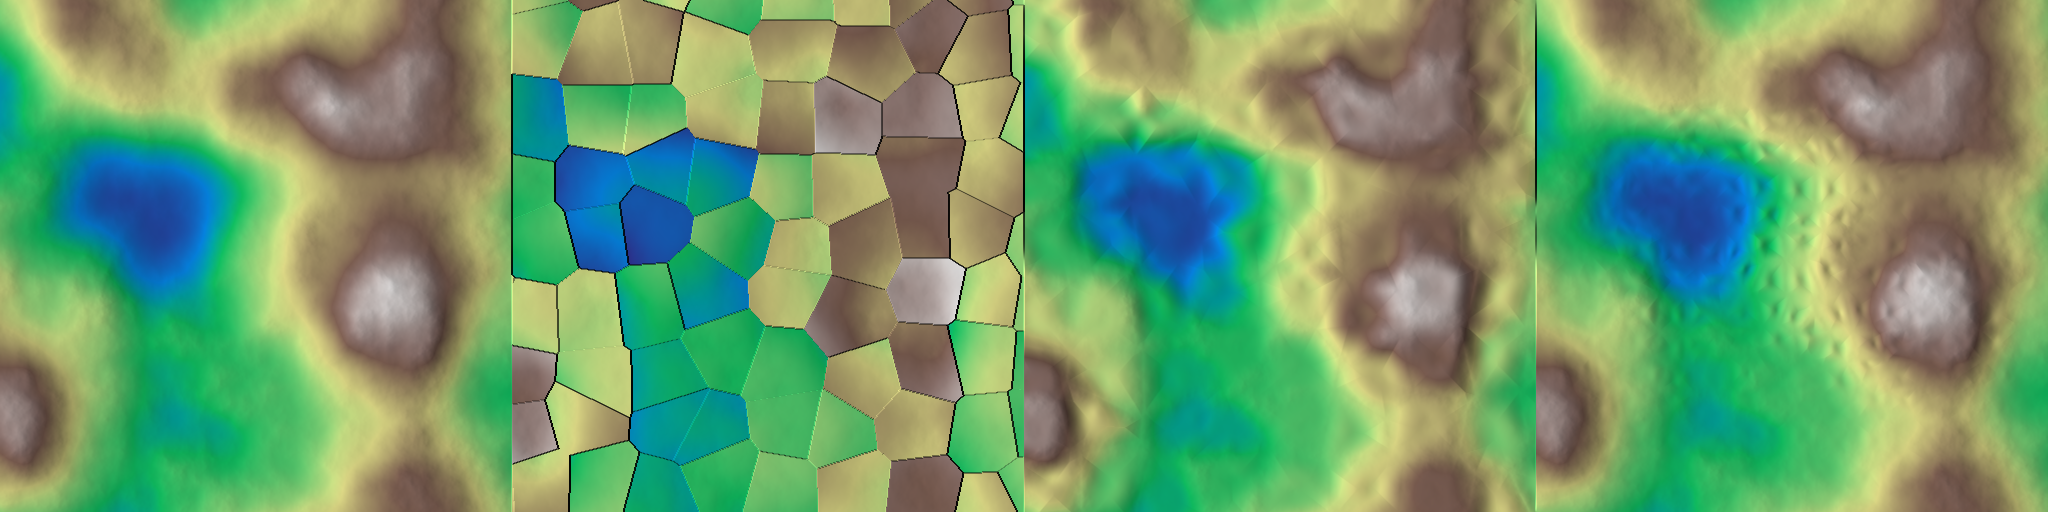
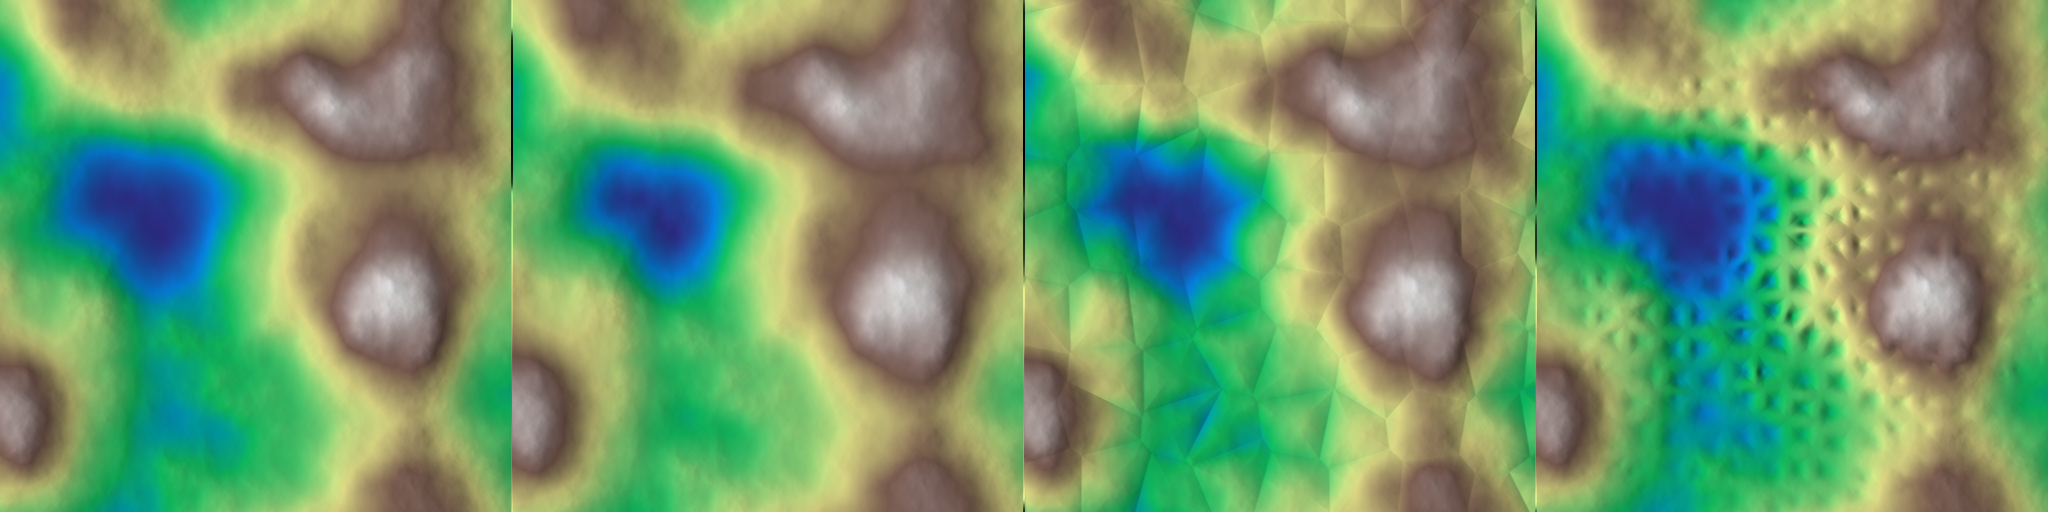
Update jagged filter to use edge-distance exponent correction with explicit parameter names

diff --git a/tests/src/test_jagged.cpp b/tests/src/test_jagged.cpp
@@ -3,6 +3,7 @@
 #include "highmap/filters.hpp"
 #include "highmap/opencl/gpu_opencl.hpp"
 #include "highmap/primitives.hpp"
+#include "highmap/range.hpp"
 
 #include <gtest/gtest.h>
 
@@ -31,44 +32,38 @@ TEST_F(JaggedTest, ConstantFieldPreserved)
   EXPECT_TRUE(assert_almost_equal(out, input, 1e-4f));
 }
 
-TEST_F(JaggedTest, FactorZeroReturnsVoronoiCells)
+TEST_F(JaggedTest, GammaOneReturnsInput)
 {
   glm::ivec2 shape = {64, 64};
   Array      input = noise_fbm(NoiseType::PERLIN, shape, {2.f, 2.f}, 42);
+  remap(input, 0.1f, 0.9f);
 
-  // shape_factor = 0 disables edge falloff, returning pure Voronoi cell
-  // constants when factor = 0
-  Array out_f0 = gpu::jagged(input,
-                             glm::vec2(4.f, 4.f),
-                             1,
-                             {0.5f, 0.5f},
-                             0.f,
-                             0.f);
-  Array out_f1 = gpu::jagged(input,
+  // gamma = 1.0 means exponent = 1.0 (no effect)
+  Array out_g1 = gpu::jagged(input,
                              glm::vec2(4.f, 4.f),
                              1,
                              {0.5f, 0.5f},
                              1.f,
-                             0.f);
+                             1.f);
 
-  EXPECT_EQ(out_f0.shape, shape);
-  EXPECT_EQ(out_f1.shape, shape);
-  EXPECT_FALSE(assert_almost_equal(out_f0, out_f1, 1e-3f));
+  EXPECT_EQ(out_g1.shape, shape);
+  EXPECT_TRUE(assert_almost_equal(out_g1, input, 1e-4f));
 }
 
-TEST_F(JaggedTest, ShapeFactorModulatesEffect)
+TEST_F(JaggedTest, ShapeGammaModulatesEffect)
 {
   glm::ivec2 shape = {64, 64};
   Array      input = noise_fbm(NoiseType::PERLIN, shape, {2.f, 2.f}, 42);
+  remap(input, 0.1f, 0.9f);
 
-  // Compare unmodulated shape_factor = 0 vs modulated shape_factor = 1.0 vs
-  // shape_factor = 2.0
-  Array out_sf0 = gpu::jagged(input, 6.f, 1, {0.5f, 0.5f}, 1.f, 0.f);
-  Array out_sf1 = gpu::jagged(input, 6.f, 1, {0.5f, 0.5f}, 1.f, 1.f);
-  Array out_sf2 = gpu::jagged(input, 6.f, 1, {0.5f, 0.5f}, 1.f, 2.f);
+  // Compare unmodulated shape_gamma = 0 vs modulated shape_gamma = 1.0 vs
+  // shape_gamma = 2.0 with gamma = 2.0 (quadratic compression towards 0)
+  Array out_sg0 = gpu::jagged(input, 6.f, 1, {0.5f, 0.5f}, 2.f, 0.f);
+  Array out_sg1 = gpu::jagged(input, 6.f, 1, {0.5f, 0.5f}, 2.f, 1.f);
+  Array out_sg2 = gpu::jagged(input, 6.f, 1, {0.5f, 0.5f}, 2.f, 2.f);
 
-  EXPECT_FALSE(assert_almost_equal(out_sf0, out_sf1, 1e-3f));
-  EXPECT_FALSE(assert_almost_equal(out_sf1, out_sf2, 1e-3f));
+  EXPECT_FALSE(assert_almost_equal(out_sg0, out_sg1, 1e-3f));
+  EXPECT_FALSE(assert_almost_equal(out_sg1, out_sg2, 1e-3f));
 }
 
 TEST_F(JaggedTest, MaskPreservesUnmaskedArea)
@@ -85,7 +80,7 @@ TEST_F(JaggedTest, MaskPreservesUnmaskedArea)
       mask(i, j) = 1.f;
 
   Array out =
-      gpu::jagged(input, glm::vec2(6.f, 6.f), 1, {0.5f, 0.5f}, 1.f, 1.f, &mask);
+      gpu::jagged(input, glm::vec2(6.f, 6.f), 1, {0.5f, 0.5f}, 1.5f, 1.f, &mask);
 
   // Bottom half (mask = 0) should remain unchanged
   for (int j = 0; j < ny / 2; ++j)
@@ -97,13 +92,14 @@ TEST_F(JaggedTest, ScalarKwOverloadEquivalence)
 {
   glm::ivec2 shape = {64, 64};
   Array      input = noise_fbm(NoiseType::PERLIN, shape, {2.f, 2.f}, 123);
+  remap(input, 0.1f, 0.9f);
 
-  Array out1 = gpu::jagged(input, 5.f, 7, {0.6f, 0.6f}, 1.f, 1.5f);
+  Array out1 = gpu::jagged(input, 5.f, 7, {0.6f, 0.6f}, 1.5f, 1.5f);
   Array out2 = gpu::jagged(input,
                            glm::vec2(5.f, 5.f),
                            7,
                            {0.6f, 0.6f},
-                           1.f,
+                           1.5f,
                            1.5f);
 
   EXPECT_TRUE(assert_almost_equal(out1, out2, 1e-5f));

diff --git a/HighMap/include/highmap/filters.hpp b/HighMap/include/highmap/filters.hpp
@@ -2383,24 +2383,22 @@ void gamma_correction_local(Array       &array,
 /**
  * @brief Apply a Voronoi-based jagged facet filter to an array.
  *
- * For each array cell, finds the nearest Voronoi cell center, samples the input
- * array at that center, and computes the output elevation as:
+ * For each array cell, calculates a normalized distance weight \( w(x) \in [0,
+ * 1] \) based on the distance to the Voronoi cell edge (with \( w = 0 \) at
+ * cell edge and
+ * \( w = 1 \) at Voronoi cell center). An exponent correction is applied as:
  * \f[
- * Z_{\text{out}}(x) = \text{lerp}\left(Z(x), Z(x_c) + \text{factor} \cdot
- * (Z(x_c) - Z(x)), w(x)\right)
- * \f] where \( x_c \) is the Voronoi cell center, \( x \) is the current cell,
- * and
- * \( w(x) \) is a shape factor based on the normalized distance to the cell
- * edge (at cell edge \( w = 0 \), at Voronoi cell center \( w = 1 \)).
+ * Z_{\text{out}}(x) = Z(x)^{1 + (\gamma - 1) \cdot w(x)}
+ * \f]
  *
  * @param  array        Input array to be filtered.
  * @param  kw           Frequency / wave numbers for Voronoi cells.
  * @param  seed         Seed for random jitter of Voronoi cell centers.
  * @param  jitter       Jitter amount controlling cell randomness (default:
  *                      {0.5f, 0.5f}).
- * @param  factor       Strength of the facet / difference effect (default:
- *                      1.0f).
- * @param  shape_factor Exponent for distance-to-edge attenuation (default:
+ * @param  gamma        Exponent target at cell center (default: 1.0f, where 1.0
+ * means no effect).
+ * @param  shape_gamma  Exponent for distance-to-edge attenuation (default:
  *                      1.0f; 0 disables edge falloff).
  * @param  p_mask       Optional mask array for blending.
  * @param  p_noise_x    Optional noise array for X perturbation.
@@ -2420,8 +2418,8 @@ Array jagged(const Array  &array,
              glm::vec2     kw,
              std::uint32_t seed = 0,
              glm::vec2     jitter = {0.5f, 0.5f},
-             float         factor = 1.f,
-             float         shape_factor = 1.f,
+             float         gamma = 1.f,
+             float         shape_gamma = 1.f,
              const Array  *p_mask = nullptr,
              const Array  *p_noise_x = nullptr,
              const Array  *p_noise_y = nullptr,
@@ -2436,9 +2434,9 @@ Array jagged(const Array  &array,
  * @param  seed         Seed for random jitter of Voronoi cell centers.
  * @param  jitter       Jitter amount controlling cell randomness (default:
  *                      {0.5f, 0.5f}).
- * @param  factor       Strength of the facet / difference effect (default:
- *                      1.0f).
- * @param  shape_factor Exponent for distance-to-edge attenuation (default:
+ * @param  gamma        Exponent target at cell center (default: 1.0f, where 1.0
+ * means no effect).
+ * @param  shape_gamma  Exponent for distance-to-edge attenuation (default:
  *                      1.0f; 0 disables edge falloff).
  * @param  p_mask       Optional mask array for blending.
  * @param  p_noise_x    Optional noise array for X perturbation.
@@ -2454,8 +2452,8 @@ Array jagged(const Array  &array,
              float         kw,
              std::uint32_t seed = 0,
              glm::vec2     jitter = {0.5f, 0.5f},
-             float         factor = 1.f,
-             float         shape_factor = 1.f,
+             float         gamma = 1.f,
+             float         shape_gamma = 1.f,
              const Array  *p_mask = nullptr,
              const Array  *p_noise_x = nullptr,
              const Array  *p_noise_y = nullptr,

diff --git a/examples/ex_jagged/ex_jagged.cpp b/examples/ex_jagged/ex_jagged.cpp
@@ -18,30 +18,28 @@ int main(void)
   const float     kw = 8.f;
   const float     kw_fine = 16.f;
   const glm::vec2 jitter = {0.6f, 0.6f};
-  const float     factor_mild = 0.8f;
-  const float     factor_strong = 1.5f;
-  const float     shape_factor_none = 0.f;
-  const float     shape_factor_smooth = 0.5f;
-  const float     shape_factor_accentuated = 1.5f;
+  const float     gamma_mild = 0.8f;
+  const float     gamma_strong = 1.5f;
+  const float     shape_gamma_none = 0.f;
+  const float     shape_gamma_smooth = 0.5f;
+  const float     shape_gamma_accentuated = 1.5f;
   const float     mask_sigma = 0.25f;
 
-  // Jagged filter with hard cell boundaries (shape_factor = 0.0)
+  // Jagged filter with hard cell boundaries (shape_gamma = 0.0)
   auto z1 = hmap::gpu::jagged(z0,
                               kw,
                               seed,
                               jitter,
-                              factor_mild,
-                              shape_factor_none);
+                              gamma_mild,
+                              shape_gamma_none);
 
-  // Jagged filter with edge distance falloff (shape_factor = 1.0)
+  // Jagged filter with edge distance falloff (shape_gamma = 0.5)
   auto z2 = hmap::gpu::jagged(z0,
                               kw,
                               seed,
                               jitter,
-                              factor_mild,
-                              shape_factor_smooth);
-
-  z2.dump();
+                              gamma_mild,
+                              shape_gamma_smooth);
 
   // Jagged filter with higher frequency and mask
   hmap::Array mask = hmap::gaussian_pulse(shape, mask_sigma);
@@ -49,8 +47,8 @@ int main(void)
                               kw_fine,
                               seed,
                               jitter,
-                              factor_strong,
-                              shape_factor_accentuated,
+                              gamma_strong,
+                              shape_gamma_accentuated,
                               &mask);
 
   hmap::export_banner_png("ex_jagged.png",

diff --git a/HighMap/src/filters/jagged.cpp b/HighMap/src/filters/jagged.cpp
@@ -17,8 +17,8 @@ Array jagged(const Array  &array,
              glm::vec2     kw,
              std::uint32_t seed,
              glm::vec2     jitter,
-             float         factor,
-             float         shape_factor,
+             float         gamma,
+             float         shape_gamma,
              const Array  *p_mask,
              const Array  *p_noise_x,
              const Array  *p_noise_y,
@@ -49,8 +49,8 @@ Array jagged(const Array  &array,
                      kw.y,
                      seed,
                      jitter,
-                     factor,
-                     shape_factor,
+                     gamma,
+                     shape_gamma,
                      p_mask ? 1 : 0,
                      p_noise_x ? 1 : 0,
                      p_noise_y ? 1 : 0,
@@ -67,8 +67,8 @@ Array jagged(const Array  &array,
              float         kw,
              std::uint32_t seed,
              glm::vec2     jitter,
-             float         factor,
-             float         shape_factor,
+             float         gamma,
+             float         shape_gamma,
              const Array  *p_mask,
              const Array  *p_noise_x,
              const Array  *p_noise_y,
@@ -78,8 +78,8 @@ Array jagged(const Array  &array,
                 {kw, kw},
                 seed,
                 jitter,
-                factor,
-                shape_factor,
+                gamma,
+                shape_gamma,
                 p_mask,
                 p_noise_x,
                 p_noise_y,
